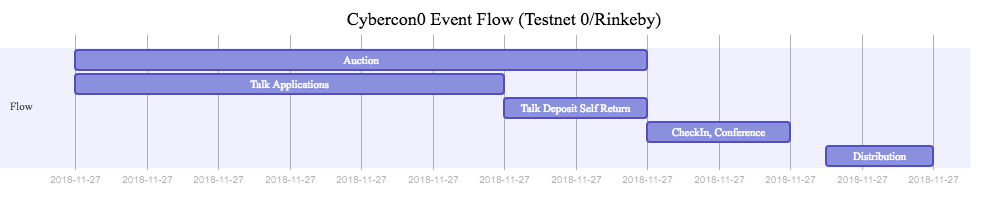
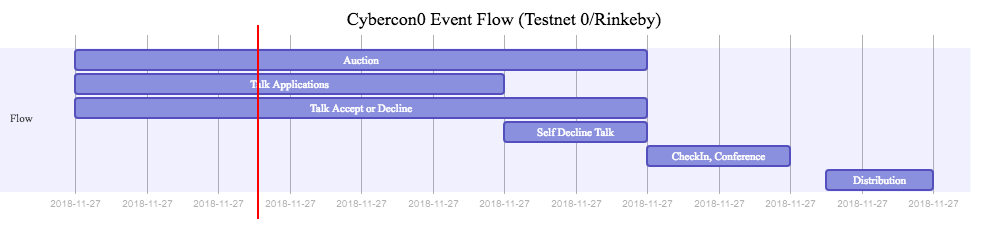
Prepared for testnet, updated tests

diff --git a/test/cybercon.test.js b/test/cybercon.test.js
@@ -19,13 +19,17 @@ contract("Cybercon", (accounts) => {
     let cybercon;
     let deployed;
     let ticketsFunds = new BN('0');
-    let speakersDeposits = new BN('0');
     let ticketsBids = [];
+    
+    const ApplicationStatus = {
+        Applied: 0,
+        Accepted: 1,
+        Declined: 2
+    }
     
     function calculatedPrice(currentTime) {
         let passed = currentTime - deployed;
-        let mul = new BN('3000000000000000');
-        let currentDiscount = (new BN(Math.round(passed/3600))).mul(mul);
+        let currentDiscount = (new BN(Math.round(passed/TIMEFRAME))).mul(BID_TIMEFRAME_DECREASE);
         if ((INITIAL_PRICE.sub(MINIMAL_PRICE)).cmp(currentDiscount)) {
             return INITIAL_PRICE.sub(currentDiscount);
         } else { return MINIMAL_PRICE; }
@@ -33,22 +37,13 @@ contract("Cybercon", (accounts) => {
     
     function calculatedSpeakersShares(time) {
         let timeDiff = (new BN(time.toString())).sub(new BN(deployed.toString()));
-        // console.log("Time diff: ", timeDiff.toString(10));
-        // let mul1 = timeDiff.imul(new BN('100')).idiv((new BN(CHECKIN_START.toString())).isub(new BN(deployed.toString())));
         let totalTime = (new BN(CHECKIN_START.toString())).sub(new BN(deployed.toString()));
-        // console.log("Total time: ", totalTime.toString(10));
-        let timeDiff100 = new BN(timeDiff.mul(new BN('100')));
-        // console.log("Time Diff 100: ", timeDiff100.toString(10));
-        let mul = timeDiff100.div(totalTime);
-        // console.log("Mul: ", mul.toString(10));
+        let timeDiff100 = new BN(timeDiff.mul(new BN('100'))); // refactor this line
+        let mul = timeDiff100.div(totalTime); // with thiss
         let divShares = (new BN(SPEAKERS_START_SHARES.toString())).sub(new BN(SPEAKERS_END_SHARES.toString()));
-        // console.log("Div Shares: ", divShares.toString(10));
         let divSharesMul = divShares.mul(mul);
-        // console.log("Div Shares Mul: ", divSharesMul.toString(10));
         let calcCurrentSharesAdd = divSharesMul.div(new BN('100'));
-        // console.log("Calc Add Shares: ", calcCurrentSharesAdd.toString(10));
         let speakersShares = calcCurrentSharesAdd.add(new BN(SPEAKERS_END_SHARES.toString()));
-        // console.log("Calculated Speakers Shares: ", speakersShares.toString(10));
         return speakersShares;
     }
     
@@ -59,20 +54,22 @@ contract("Cybercon", (accounts) => {
     const CYBERCON_SYMBOL = "CYBERCON0";
     const CYBERCON_PLACE = "Korpus 8";
     
-    const TICKETS_AMOUNT = 200;
-    const SPEAKERS_SLOTS = 8;
+    const TICKETS_AMOUNT = 100;
+    const SPEAKERS_SLOTS = 10;
     
-    // const ORGANIZERS_START_SHARES = 80;
     const SPEAKERS_START_SHARES = 80;
     const SPEAKERS_END_SHARES = 20;
     
-    const INITIAL_PRICE = new BN('1500000000000000000');
-    const MINIMAL_PRICE = new BN('300000000000000000');
+    const INITIAL_PRICE = web3.utils.toWei(new BN(1000), 'finney');
+    const MINIMAL_PRICE = web3.utils.toWei(new BN(40), 'finney');
+    const BID_TIMEFRAME_DECREASE = web3.utils.toWei(new BN(2), 'finney');
+    const TIMEFRAME = 50;
     
-    const EXPECTED_START = 1543611600;
-    const CHECKIN_START = 1544767200;
-    const CHECKIN_END = 1544792400;
-    const DISTRIBUTION_START = 1544796000;
+    const EXPECTED_START = 1543312800; // ~13.00 27 november
+    const TALKS_APPLICATION_END = 1543339800 // 20.30
+    const CHECKIN_START = 1543345200; // 22.00
+    const CHECKIN_END = 1543347000; // 22.30
+    const DISTRIBUTION_START = 1543348800; // 23.00
     
     before(async () => {
         await increaseTo(EXPECTED_START);
@@ -103,12 +100,6 @@ contract("Cybercon", (accounts) => {
             (await cybercon.getDistributionTime()).toNumber().should.equal(DISTRIBUTION_START);
         });
         
-        it("initial organizers and speakers shares should be equal", async() => {
-            // (await cybercon.getOrganizersShares()).toNumber().should.equal(ORGANIZERS_START_SHARES);
-            // (await cybercon.getSpeakersShares()).toNumber().should.equal(SPEAKERS_START_SHARES);
-            // (ORGANIZERS_START_SHARES + SPEAKERS_START_SHARES).should.be.equal(100);
-        });
-        
         it("tickets amount should equal", async() => {
             (await cybercon.getTicketsAmount()).toNumber().should.equal(TICKETS_AMOUNT);
         });
@@ -122,35 +113,34 @@ contract("Cybercon", (accounts) => {
         });
         
         it("initial price should be equal", async() => {
-            let currentPrice = await cybercon.getCurrentPrice();
-            expect(currentPrice).to.eq.BN(calculatedPrice(await latest()));
+            expect(await cybercon.getCurrentPrice()).to.eq.BN(calculatedPrice(await latest()));
         });
     })
     
     describe("when auction started", () => {
         it("should start dutch auction, distribute first half of tickets", async() => {
             for (var i = 0; i < TICKETS_AMOUNT/2; i++){
-            // for (var i = 0; i < 10; i++){
                 let bid = calculatedPrice(await latest());
                 ticketsBids.push(bid);
                 expect(bid).to.eq.BN(await cybercon.getCurrentPrice());
                 await cybercon.buyTicket({ from: accounts[i], value: bid }).should.be.fulfilled;                
                 ticketsFunds.iadd(bid);
-        
+    
                 let bidFromContract = await cybercon.getBidForTicket(i);
                 expect(bidFromContract[0]).to.eq.BN(bid);
                 bidFromContract[1].should.be.equal(accounts[i]);
                 await cybercon.buyTicket({ from: accounts[i], value: bid }).should.be.rejected;
-        
-                await increase(3600);
+    
+                await increase(200);
             }
-        
+    
             expect(await web3.eth.getBalance(cybercon.address)).to.eq.BN(ticketsFunds);
             expect(await cybercon.getTicketsFunds()).to.eq.BN(ticketsFunds);
         });
     
         it("should apply speakers", async() => {
-            for (var i = 200; i < 208; i++){
+            let speakersDeposits = new BN('0');
+            for (var i = 200; i < 232; i++){
                 let talk = {
                     sn: getRandomString(32),
                     ds: getRandomString(128),
@@ -165,7 +155,7 @@ contract("Cybercon", (accounts) => {
                     }
                 ).should.be.fulfilled;
                 speakersDeposits.iadd(talk.va);
-        
+    
                 let talkFromContract = await cybercon.getTalkById(i-200);
                 talkFromContract[0].should.be.equal(talk.sn);
                 talkFromContract[1].should.be.equal(talk.ds);
@@ -173,32 +163,73 @@ contract("Cybercon", (accounts) => {
                 talkFromContract[3].toNumber().should.be.equal(talk.du);
                 expect(talkFromContract[4]).to.eq.BN(talk.va);
                 talkFromContract[5].should.be.equal(accounts[i]);
-        
-                await increase(900);
-            }
-        
-            expect(await web3.eth.getBalance(cybercon.address)).to.eq.BN(ticketsFunds.add(speakersDeposits));
-            expect(await cybercon.getSpeakersDeposits()).to.eq.BN(speakersDeposits);
-            (await cybercon.totalSupply()).toNumber().should.be.equal(100);
-        });
+                talkFromContract[8].toNumber().should.be.equal(ApplicationStatus.Applied);
     
-        it("should not apply more more than 8 speakers", async() => {
-            for (var i = 209; i < 211; i++){
+                await increase(60);
+            }
+    
+            expect(await web3.eth.getBalance(cybercon.address)).to.eq.BN(ticketsFunds.add(speakersDeposits));
+            (await cybercon.totalSupply()).toNumber().should.be.equal(TICKETS_AMOUNT/2);
+        });
+        
+        it("should allow speakers to udpate their talks", async() => {
+            for (var i = 200; i < 232; i++){
                 let talk = {
-                    sn: getRandomString(32),
                     ds: getRandomString(128),
                     dt: getRandomString(256),
-                    du: getRandomInt(900, 3600),
-                    va: (new BN(getRandomInt(1000, 5000).toString())).mul(new BN('1000000000000000'))
                 }
-                await cybercon.applyForTalk(talk.sn, talk.ds, talk.dt, talk.du,
+                await cybercon.updateTalkDescription((i-200), talk.ds, talk.dt,
                     {
-                        from: accounts[i],
-                        value: talk.va
+                        from: accounts[i]
                     }
-                ).should.be.rejected;
+                ).should.be.fulfilled;
+    
+                let talkFromContract = await cybercon.getTalkById(i-200);
+                talkFromContract[1].should.be.equal(talk.ds);
+                talkFromContract[2].should.be.equal(talk.dt);
             }
-        });
+        })
+        
+        it("should allow organizer accept talks", async() => {
+            for (var i = 200; i < 210; i++){
+                await cybercon.acceptTalk((i-200),
+                {
+                    from: CYBERCON_ORGANIZER
+                }).should.be.fulfilled;
+                let talkFromContract = await cybercon.getTalkById(i-200);
+                talkFromContract[8].toNumber().should.be.equal(ApplicationStatus.Accepted);
+            }
+            (await cybercon.getAvailableSpeaksersSlots()).toNumber().should.be.equal(0);
+        })
+        
+        it("should allow organizer to decline talks", async() => {
+            for (var i = 210; i < 230; i++){
+                let declinedSpeakerBalanceBefore = new BN(await web3.eth.getBalance(accounts[i]));
+                await cybercon.declineTalk((i-200),
+                {
+                    from: CYBERCON_ORGANIZER
+                }).should.be.fulfilled;
+                let declinedSpeakerBalanceAfter = new BN(await web3.eth.getBalance(accounts[i]));
+                let talkFromContract = await cybercon.getTalkById(i-200);
+                talkFromContract[8].toNumber().should.be.equal(ApplicationStatus.Declined);
+                expect(declinedSpeakerBalanceAfter.sub(declinedSpeakerBalanceBefore)).to.eq.BN(talkFromContract[4]);
+            }
+        })
+        
+        it("should allow self decline for speaker", async() => {
+            await increaseTo(TALKS_APPLICATION_END);
+            for (var i = 231; i < 232; i++){
+                let declinedSpeakerBalanceBefore = new BN(await web3.eth.getBalance(accounts[i]));
+                await cybercon.selfDeclineTalk((i-200),
+                {
+                    from: accounts[i]
+                }).should.be.fulfilled;
+                let declinedSpeakerBalanceAfter = new BN(await web3.eth.getBalance(accounts[i]));
+                let talkFromContract = await cybercon.getTalkById(i-200);
+                talkFromContract[8].toNumber().should.be.equal(ApplicationStatus.Declined);
+                expect(declinedSpeakerBalanceAfter.sub(declinedSpeakerBalanceBefore)).to.gt.BN(new BN('0'));
+            }
+        })
     
         it("shoud continuon the dutch auction, distribute second half of tickets", async() => {
             for (var i = TICKETS_AMOUNT/2; i < TICKETS_AMOUNT; i++){                
@@ -206,38 +237,37 @@ contract("Cybercon", (accounts) => {
                 ticketsBids.push(bid);
                 await cybercon.buyTicket({ from: accounts[i], value: bid }).should.be.fulfilled;                
                 ticketsFunds.iadd(bid);
-        
+    
                 let bidFromContract = await cybercon.getBidForTicket(i);
                 expect(bidFromContract[0]).to.eq.BN(bid);
                 bidFromContract[1].should.be.equal(accounts[i]);
                 await cybercon.buyTicket({ from: accounts[i], value: bid }).should.be.rejected;
-        
-                await increase(1800);
+    
+                await increase(50);
             }
-        
+    
             expect(await cybercon.getTicketsFunds()).to.eq.BN(ticketsFunds);
-            expect(await web3.eth.getBalance(cybercon.address)).to.eq.BN(ticketsFunds.add(speakersDeposits));
             expect(ticketsBids.slice(-1)[0]).to.eq.BN(await cybercon.getEndPrice());
             (await cybercon.getTicketsAmount()).toNumber().should.be.equal(0);
-            (await cybercon.totalSupply()).toNumber().should.be.equal(200);
+            (await cybercon.totalSupply()).toNumber().should.be.equal(TICKETS_AMOUNT);
         });
     })
     
     describe("when conference starts", () => {
         it("shoud checkin speaksers, send tokens for them", async() => {
             await increaseTo(CHECKIN_START);
-            for (var i = 200; i < 208; i++){
-                await increase(1800);
+            for (var i = 200; i < 200 + SPEAKERS_SLOTS; i++){
+                await increase(100);
                 await cybercon.checkinSpeaker(i-200, { from: CYBERCON_ORGANIZER }).should.be.fulfilled;
                 let talkFromContract = await cybercon.getTalkById(i-200);
                 talkFromContract[7].should.be.equal(true);
             }
-            (await cybercon.totalSupply()).toNumber().should.be.equal(208);
+            (await cybercon.totalSupply()).toNumber().should.be.equal(TICKETS_AMOUNT+SPEAKERS_SLOTS);
         })
     })
     
     describe("when distribution starts", () => {
-        
+    
         it("should correctly distribute overbids", async() => {
             await increaseTo(DISTRIBUTION_START)
             let membersBalancesBefore = [];
@@ -247,7 +277,7 @@ contract("Cybercon", (accounts) => {
             for (var i = 0; i < TICKETS_AMOUNT; i++){
                 membersBalancesBefore.push(new BN(await web3.eth.getBalance(accounts[i])));
             }
-            await cybercon.distributeBids({ from: RANDOM_WALKER }).should.be.fulfilled;
+            await cybercon.distributeOverbids({ from: RANDOM_WALKER }).should.be.fulfilled;
             for (var i = 0; i < TICKETS_AMOUNT; i++){
                 let balanceAfter = new BN(await web3.eth.getBalance(accounts[i]));
                 let diff = new BN(balanceAfter.sub(membersBalancesBefore[i]));
@@ -257,12 +287,12 @@ contract("Cybercon", (accounts) => {
             let walkerBalanceAfter = (new BN(await web3.eth.getBalance(RANDOM_WALKER)));
             expect(walkerBalanceAfter.sub(walkerBalanceBefore)).to.gt.BN(new BN('900000000000000000')); // gas payed by walker
         })
-        
+    
         it("should correctly distribute rewards", async() => {
             let walkerBalanceBefore = (new BN(await web3.eth.getBalance(RANDOM_WALKER)));
             let organizerBalance = new BN(await web3.eth.getBalance(CYBERCON_ORGANIZER));
             let speakersBalances = [];
-            for (var i = 200; i < 208; i++){
+            for (var i = 200; i < 200+SPEAKERS_SLOTS; i++){
                 speakersBalances.push(new BN(await web3.eth.getBalance(accounts[i])));
             }
             let calculatedShares = calculatedSpeakersShares(await cybercon.getAuctionEndTime());
@@ -271,13 +301,16 @@ contract("Cybercon", (accounts) => {
             console.log("Actual Speakers shares: ", (await cybercon.getSpeakersShares()).toString());
             console.log("_______________");
             expect(await cybercon.getSpeakersShares()).to.eq.BN(calculatedShares);
-            
+    
             let endPrice = new BN(await cybercon.getEndPrice());
+            console.log("End Price: ", web3.utils.fromWei(await cybercon.getEndPrice(), 'ether').toString());
+            console.log("_______________");
             let valueFromTicketsForReward = endPrice.mul(new BN(TICKETS_AMOUNT));
-            
+            console.log("Tickets Funds: ", web3.utils.fromWei(valueFromTicketsForReward, 'ether').toString());
+            console.log("_______________");
             await cybercon.distributeRewards({ from: RANDOM_WALKER }).should.be.fulfilled;
             let valuePerSpeaker = (valueFromTicketsForReward.mul(calculatedShares).div(new BN('100'))).div(new BN(SPEAKERS_SLOTS.toString()));
-            for (var i = 200; i < 208; i++){
+            for (var i = 200; i < 200+SPEAKERS_SLOTS; i++){
                 let talkFromContract = await cybercon.getTalkById(i-200);
                 let speakerBalanceAfter = new BN(await web3.eth.getBalance(accounts[i]));
                 console.log("Speaker's talk ID: ", (i-200));
@@ -291,14 +324,15 @@ contract("Cybercon", (accounts) => {
                 expect(balanceDiff).to.eq.BN(payment);
             }
             let organizerShares = (new BN('100')).sub(calculatedShares);
-            let valueForOrganizer = (valueFromTicketsForReward.mul(organizerShares).div(new BN('100'))).sub(new BN('2000000000000000000'));
+            let valueForOrganizer = (valueFromTicketsForReward.mul(organizerShares).div(new BN('100')));
+            // need to minus gas payed for previous calls for value for organizer
             let organizerBalanceAfter = new BN(await web3.eth.getBalance(CYBERCON_ORGANIZER));
             console.log("Value for organizer: ", web3.utils.fromWei(valueForOrganizer, 'ether'));
             console.log("Organizer's balance before: ", web3.utils.fromWei(organizerBalance, 'ether'));
             console.log("Organizer's balance after: ", web3.utils.fromWei(organizerBalanceAfter, 'ether'));
             console.log("Organizer's balance diff: ", web3.utils.fromWei((organizerBalanceAfter.sub(organizerBalance)), 'ether'));
-            expect(organizerBalanceAfter.sub(valueForOrganizer)).to.eq.BN(organizerBalance);
-            
+            expect(organizerBalanceAfter).to.gt.BN(organizerBalance);
+    
             let walkerBalanceAfter = (new BN(await web3.eth.getBalance(RANDOM_WALKER)));
             expect(walkerBalanceAfter.sub(walkerBalanceBefore)).to.gt.BN(new BN('900000000000000000')); // gas payed by walker
         })

diff --git a/truffle.js b/truffle.js
@@ -13,7 +13,6 @@ module.exports = {
               return new HDWalletProvider(infuraConfig.privateKey, infuraConfig.infuraUrl);
             },
             from: infuraConfig.fromAddress,
-
             network_id: 4,
             gasPrice: toWei(10, 'gwei').toNumber(),
             gas: toWei(6, 'mwei').toNumber()

diff --git a/migrations/2_deploy_cybercon.js b/migrations/2_deploy_cybercon.js
@@ -1,6 +1,5 @@
 var Cybercon = artifacts.require("Cybercon");
 
-
-module.exports = async function(deployer, network, accounts) {
-  deployer.deploy(Cybercon, { from: accounts[0]} );
+module.exports = function(deployer) {
+  deployer.deploy(Cybercon);
 };

diff --git a/README.md b/README.md
@@ -40,6 +40,13 @@ truffle-flattener contracts/Cybercon.sol > cybercon0_full.sol
 2. Should provide deposit more or equal than minimal speaker deposit.
 ```
 
+##### updateTalkDescription
+```
+1. Speaker may update self and talk description for their talk.
+```
+
+#### Talk Accept or Decline
+
 ##### acceptTalk
 ```
 1. Organizer accepts interested talk .
@@ -52,12 +59,7 @@ truffle-flattener contracts/Cybercon.sol > cybercon0_full.sol
 2. Send deposit back to applier.
 ```
 
-##### updateTalkDescription
-```
-1. Speaker may update self and talk description for their talk.
-```
-
-#### Talks self decline
+#### Self Decline Talk
 ##### selfDeclineTalk
 ```
 1. If talk was not checked for different reasons (missed, no more slots, etc) by organizer, 
@@ -85,3 +87,5 @@ than applier or organizer may decline talk and transfer deposit back to applier.
 4. Speakers reward linked to last sold ticket. Goes down from 80(start auction) to 20(start event).
 ```
 
+### Gas Usage 
+![gas_usage](docs/gas_usage.png)
